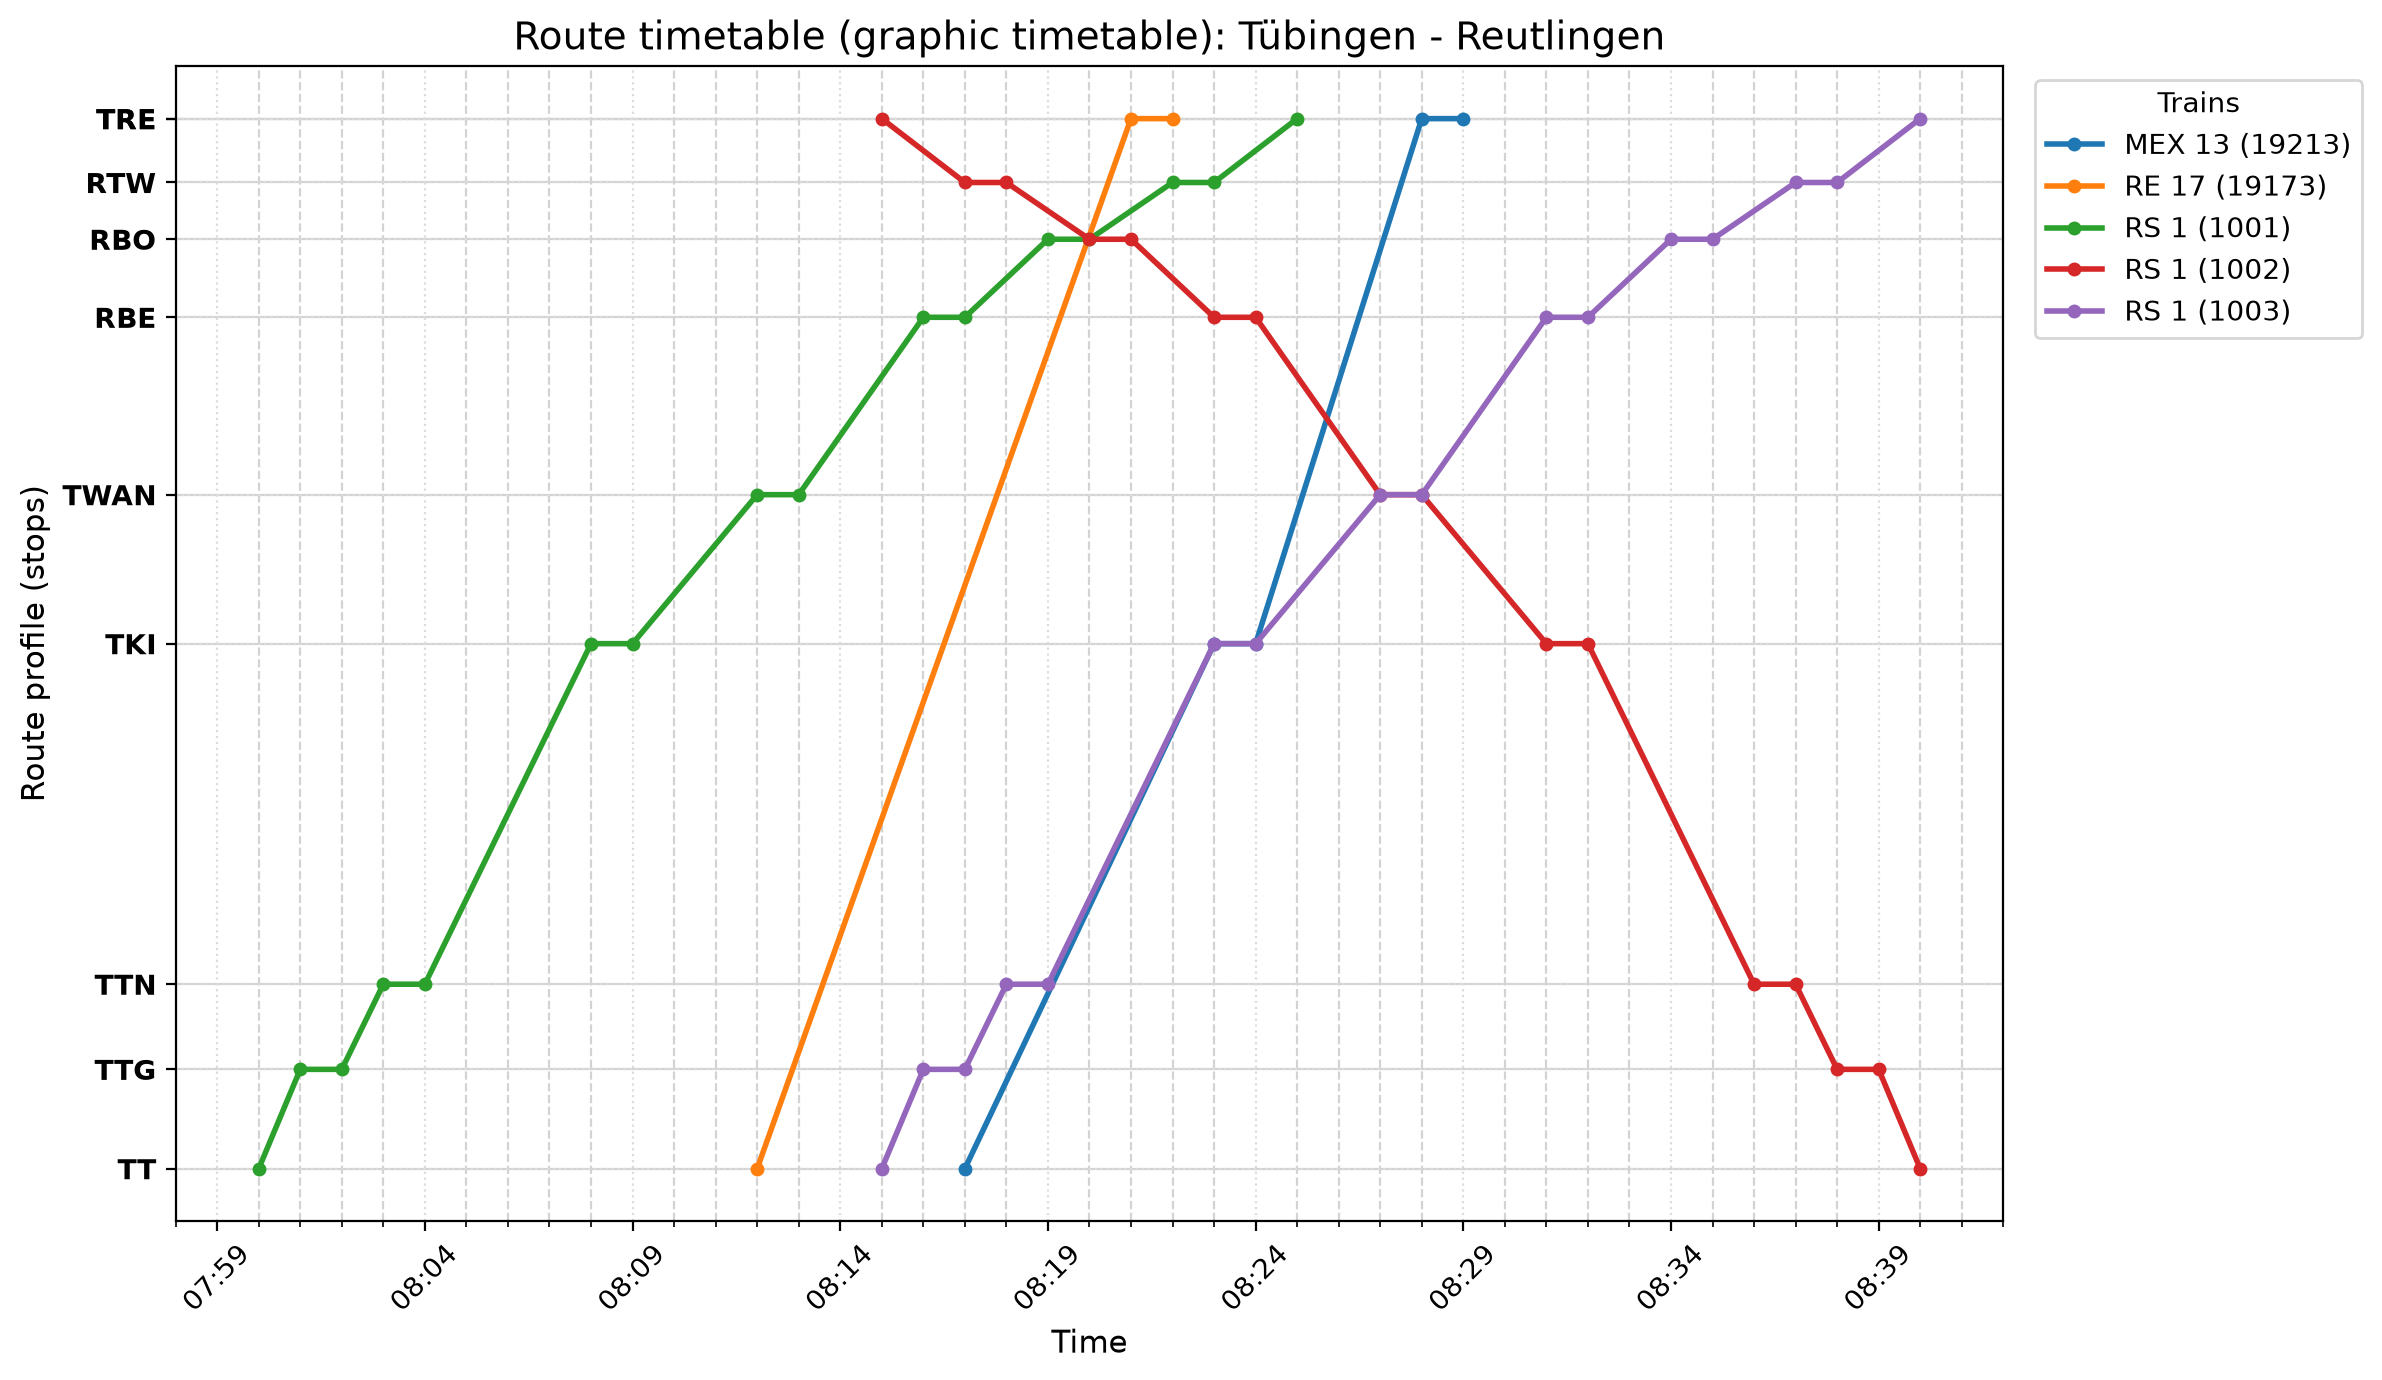
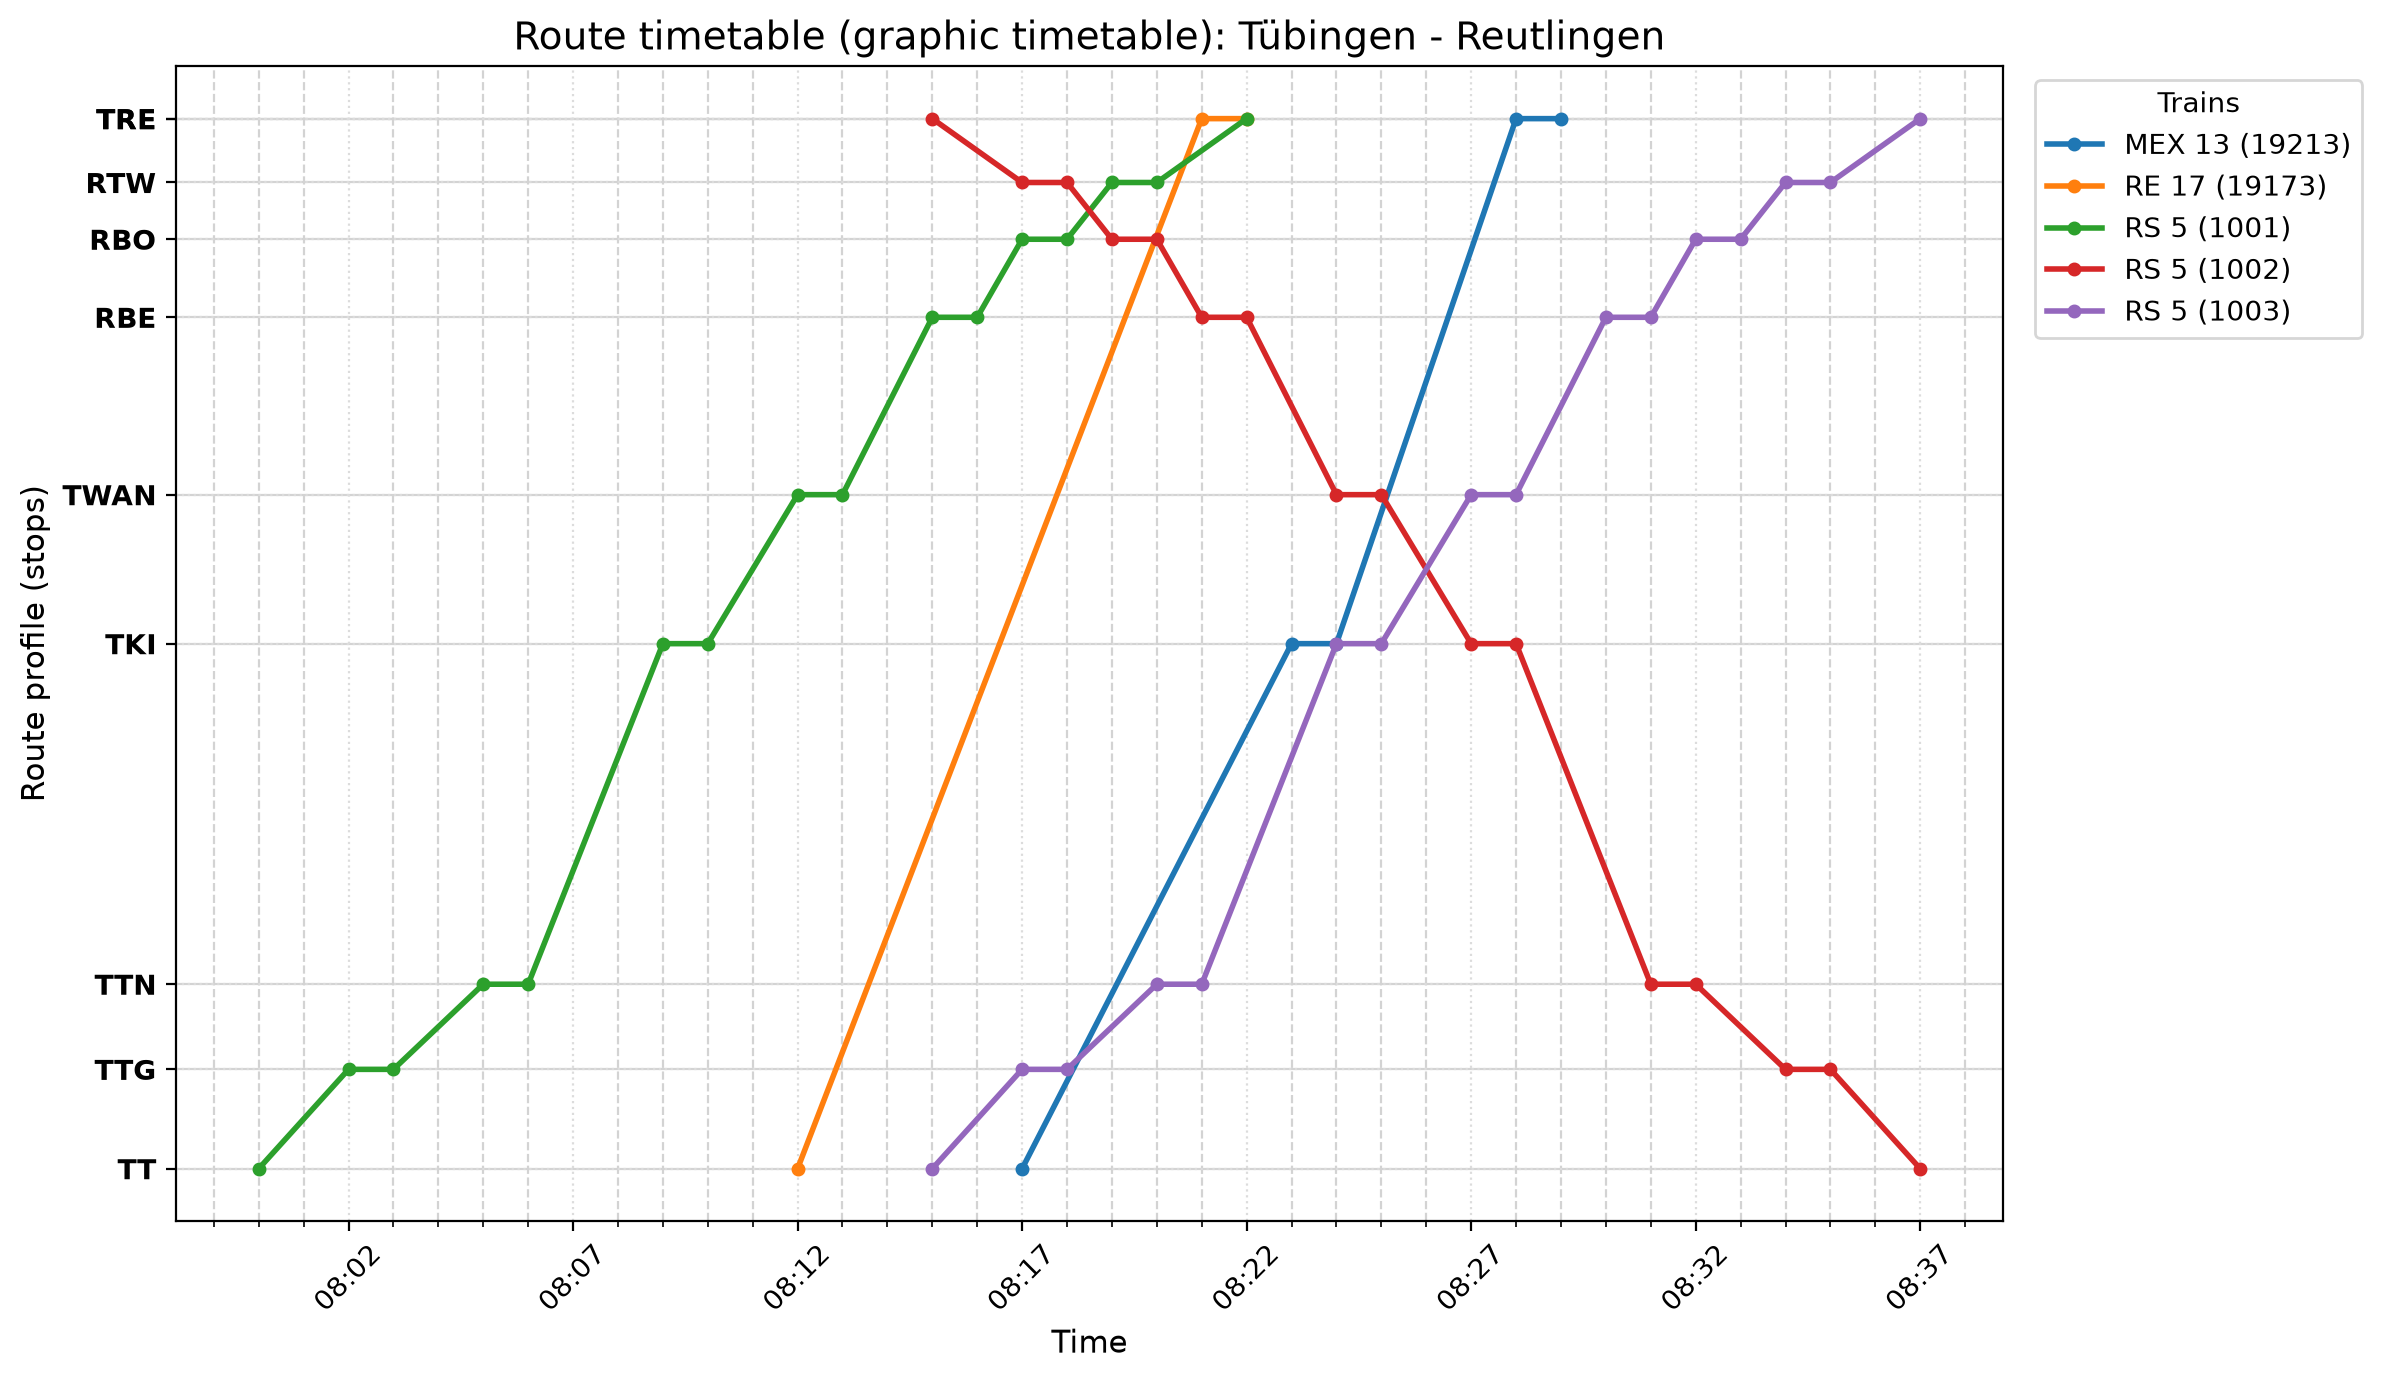
update: train times

diff --git a/main.py b/main.py
@@ -2,18 +2,18 @@ from train import Train, station_code_to_id, trains_to_dataframe
 from diagrams import generate_line_timetable, plot_route_timetable
 
 
-RS1_TUEBINGEN_REUTLINGEN = {
-    "name": "RS 1",
+RS5_TUEBINGEN_REUTLINGEN = {
+    "name": "RS 5",
     "stops": [
         {"station_id": 1, "arrival": None, "departure": 0},
-        {"station_id": 2, "arrival": 1, "departure": 2},
-        {"station_id": 3, "arrival": 3, "departure": 4},
-        {"station_id": 4, "arrival": 8, "departure": 9},
+        {"station_id": 2, "arrival": 2, "departure": 3},
+        {"station_id": 3, "arrival": 5, "departure": 6},
+        {"station_id": 4, "arrival": 9, "departure": 10},
         {"station_id": 5, "arrival": 12, "departure": 13},
-        {"station_id": 6, "arrival": 16, "departure": 17},
-        {"station_id": 7, "arrival": 19, "departure": 20},
-        {"station_id": 8, "arrival": 22, "departure": 23},
-        {"station_id": 9, "arrival": 25, "departure": None},
+        {"station_id": 6, "arrival": 15, "departure": 16},
+        {"station_id": 7, "arrival": 17, "departure": 18},
+        {"station_id": 8, "arrival": 19, "departure": 20},
+        {"station_id": 9, "arrival": 22, "departure": None},
     ],
 }
 
@@ -36,15 +36,15 @@ MEX_TUEBINGEN_REUTLINGEN = {
 
 TRAINS = [
     Train.from_blueprint(
-        "1001", RS1_TUEBINGEN_REUTLINGEN, "RS 1", "08:00",
+        "1001", RS5_TUEBINGEN_REUTLINGEN, "RS 5", "08:00",
         "LPLPL", "REGIONAL", 100, "X1",
     ),
     Train.from_blueprint(
-        "1002", Train.reverse_blueprint(RS1_TUEBINGEN_REUTLINGEN),
-        "RS 1", "08:15", "LPLPL", "REGIONAL", 100, "X1",
+        "1002", Train.reverse_blueprint(RS5_TUEBINGEN_REUTLINGEN),
+        "RS 5", "08:15", "LPLPL", "REGIONAL", 100, "X1",
     ),
     Train.from_blueprint(
-        "1003", RS1_TUEBINGEN_REUTLINGEN, "RS 1", "08:15",
+        "1003", RS5_TUEBINGEN_REUTLINGEN, "RS 5", "08:15",
         "LPLPL", "REGIONAL", 100, "X1",
     ),
     Train.from_blueprint(

diff --git a/timetable.py b/timetable.py
@@ -3,7 +3,7 @@
 from main import (
     MEX_TUEBINGEN_REUTLINGEN,
     RE_TUEBINGEN_REUTLINGEN,
-    RS1_TUEBINGEN_REUTLINGEN,
+    RS5_TUEBINGEN_REUTLINGEN,
     TRAINS,
     main,
 )
